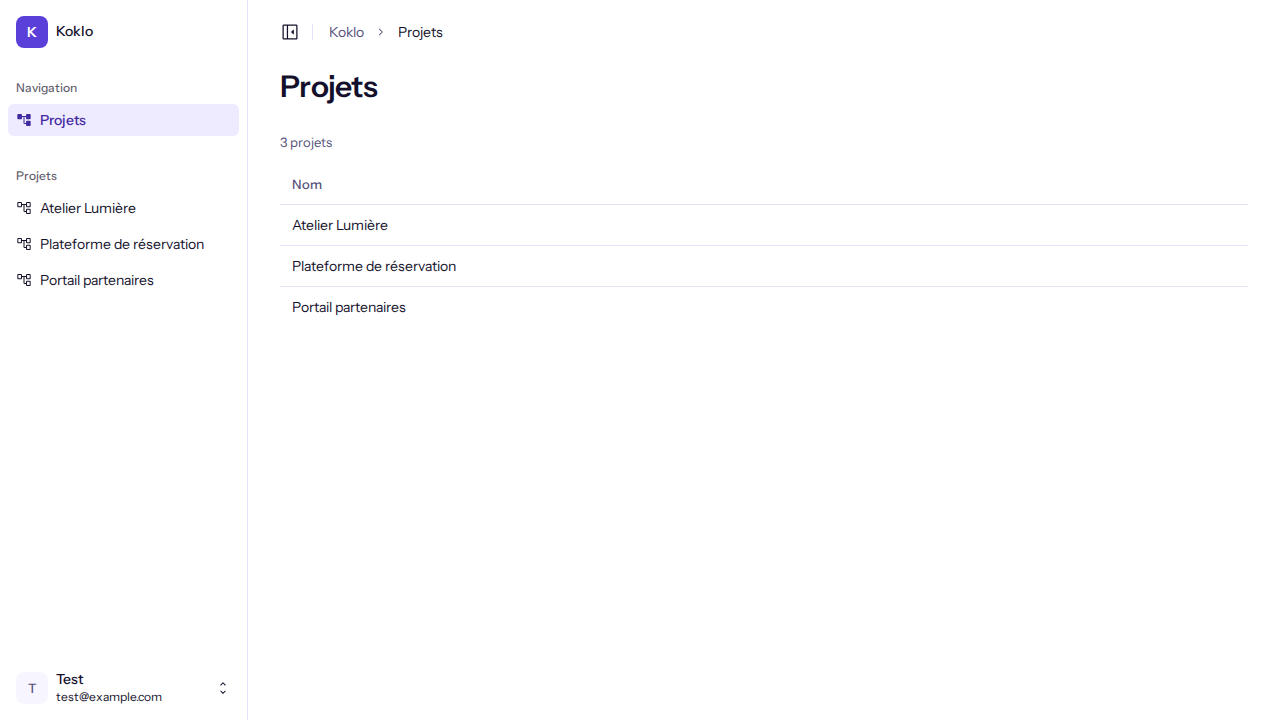
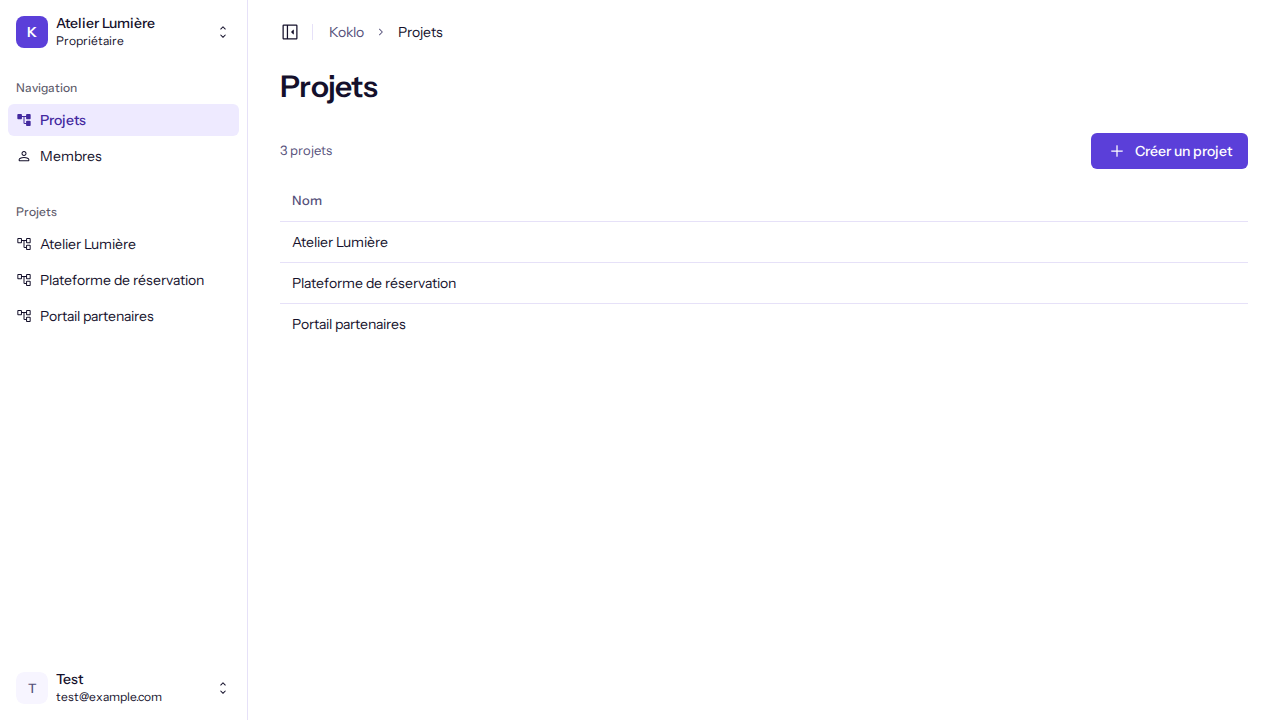
docs(design): add the organizations and members screens and their captures

diff --git a/design/screens/S-projects.md b/design/screens/S-projects.md
@@ -1,7 +1,7 @@
 ---
 id: S-projects
 titre: Liste des projets
-version: 3
+version: 4
 ---
 ## 1. Utilisateurs et objectif
 Personne connectée (vue équipe d'abord). Elle arrive après la connexion (`/projects`). Objectif : voir les projets auxquels elle a accès. Cet écran décrit aussi le **gabarit d'application** réutilisé par les écrans suivants.
@@ -10,23 +10,30 @@ Personne connectée (vue équipe d'abord). Elle arrive après la connexion (`/pr
 - Principale : repérer un projet par son nom.
 - Secondaire : relancer le chargement en cas d'erreur ; basculer clair/sombre.
 - Entrées : `/projects` (redirection depuis `/login` avec session). Sortie : sans session ou erreur `UNAUTHORIZED`, redirection vers `/login`. Le détail d'un projet est hors lot : les lignes ne sont pas des liens tant que la page détail n'existe pas.
-- Pas de création de projet dans ce lot (aucune action inventée).
+- Création (TK-24) : le bouton « Créer un projet » (icône `add`, propriétaire et administrateur seulement) ouvre un panneau latéral (`Sheet`, 400 px) avec le champ « Nom du projet ». Entrée : `/projects` exige une organisation active ; sans organisation active, redirection vers `/organizations` (jamais vers `/login` quand une session existe, lacune G1).
 
 ## 3. Contenu
 Source : `project.list` (`{ id: uuid, name: string }[]`).
 - Titre de page « Projets » (h1, 30 px/600).
 - Données : colonne unique « Nom » (`name`). `id` n'est pas affiché (identifiant technique).
-- Gabarit (`sidebar-07`, TK-85) : logo « K » + nom « Koklo » en tête de barre latérale ; une entrée de navigation « Projets » (icône `account_tree`, `aria-current="page"`, remplie car active) ; bascule de thème en pied de barre ; `SidebarTrigger` dans l'en-tête du contenu. Aucune donnée de démo du bloc (équipes, projets factices, utilisateur).
+- Gabarit (`sidebar-07`, TK-85) : logo « K » + nom « Koklo » en tête de barre latérale ; deux entrées de navigation : « Projets » (icône `account_tree`) et « Membres » (icône `person`, TK-24), `aria-current="page"` sur la page courante, icône remplie quand active ; bascule de thème en pied de barre ; `SidebarTrigger` dans l'en-tête du contenu. Aucune donnée de démo du bloc (équipes, projets factices, utilisateur).
 - Correction TK-85 : blocs fidèles, installés par la CLI. En-tête de barre : TeamSwitcher « Koklo » seul (logo K, sans menu). Navigation : NavMain « Projets » (sans sous-menu). Groupe NavProjects : projets réels de `project.list`, non cliquables, masqué si vide, en chargement ou en erreur. Pied : NavUser (nom, e-mail, initiales de la session ; menu = thème + « Se déconnecter » via `signOut`). En-tête de contenu : `SidebarTrigger`, séparateur, fil d'Ariane « Koklo > Projets ». La bascule de thème quitte le pied de barre pour le menu utilisateur.
 - Pied de barre latérale : `APP_VERSION` non affichée (pas de besoin utilisateur).
 
+- TK-24, TeamSwitcher : n'est plus statique. Il affiche le nom de l'organisation active (repli « Koklo » pendant le chargement), le rôle en texte secondaire et l'icône `unfold_more`. Menu (`DropdownMenu`) : libellé « Organisations », une ligne par organisation (`check` sur l'active, changement via `setActive` puis rechargement des données), séparateur, « Créer une organisation » (icône `add`, vers `/organizations`).
+- TK-24, création de projet : `Sheet` titre « Créer un projet », champ « Nom du projet » (1 à 100 caractères), boutons « Créer le projet » et « Annuler ». Source : `project.create`. Succès : le panneau se ferme, le focus revient sur le bouton déclencheur, la liste se recharge, une région `role="status"` annonce « Projet « <nom> » créé. » et le compteur monte.
+
 ## 4. États
 - **Chargement** : zone `role="status"` `aria-busy="true"` avec libellé visible « Chargement des projets… » et 3 lignes squelette (tokens `muted`). Aucun contenu périmé. Squelette immobile en mouvement réduit.
-- **Vide** (`[]`) : `Card` centrée : icône `account_tree` (28), titre « Aucun projet pour le moment », texte « Les projets auxquels vous avez accès apparaîtront ici. » Pas de tableau vide, pas de bouton inventé.
+- **Vide** (`[]`) : `Card` centrée : icône `account_tree` (28), titre « Aucun projet pour le moment ». Propriétaire ou administrateur : texte « Créez votre premier projet pour commencer. » et bouton « Créer un projet ». Autres rôles : texte « Les projets auxquels vous avez accès apparaîtront ici. », sans bouton. Pas de tableau vide.
 - **Données** : `Table` avec `TableCaption` masquée visuellement « Liste des projets », un `TableHead` « Nom », une ligne par projet. Compteur « N projet(s) » sous le titre.
 - **Erreur** (`INTERNAL`, réseau) : `Alert` destructive, icône `warning`, titre « Impossible de charger les projets », description « Une erreur est survenue. Vérifiez votre connexion puis réessayez. », bouton `Button variant="outline"` « Réessayer » qui relance `project.list` (passe en état chargement).
 - **Non connecté / `UNAUTHORIZED`** : redirection vers `/login`, sans message.
-- Droits insuffisants : sans objet (la liste est filtrée côté API).
+- Droits insuffisants (TK-24) : la liste est filtrée côté API ; pour les rôles autres que propriétaire et administrateur, le bouton « Créer un projet » n'est pas rendu. Si l'API répond `FORBIDDEN` à la création : `Alert` destructive dans le panneau, icône `lock`, « Vous n'avez pas le droit de créer un projet. Demandez à un propriétaire ou à un administrateur. », saisie conservée.
+- Création en cours : champ en lecture seule, bouton `disabled` + `aria-busy`, « Création… ».
+- Erreur de saisie : nom vide « Saisissez le nom du projet. » ; plus de 100 caractères « Le nom ne peut pas dépasser 100 caractères. » (sous le champ, `aria-invalid`, `aria-describedby`, focus sur le champ).
+- Erreur `INTERNAL` à la création : `Alert` destructive dans le panneau, « Le projet n'a pas pu être créé », « Une erreur est survenue. Réessayez dans un instant. »
+- Session sans organisation active (G1) : redirection vers `/organizations`, sans message.
 
 ## 5. Interactions et retours
 « Réessayer » remet l'écran en chargement puis en données/vide/erreur. Bascule de thème immédiate, persistée (cookie/localStorage), sans flash au rechargement ; défaut clair (H-24). Panneau de détail : emplacement réservé (380–440 px, `aside` absent du DOM tant qu'aucun détail n'existe), aucune interaction.
@@ -56,7 +63,12 @@ Sous 768 px : barre latérale masquée, ouverte en `Sheet` par le trigger de l'e
 7. **NavUser réel (retenu, correction TK-85)** contre bascule de thème seule ou menu de démo (Compte, Facturation, Notifications) : seules actions réelles, thème et déconnexion.
 8. **TeamSwitcher à entrée unique sans menu** contre équipes factices ou « Ajouter une équipe » : aucune notion d'équipe dans le contrat.
 
+9. **Création dans un `Sheet` (TK-24, retenu)** contre page `/projects/new` : un seul champ, le contexte de la liste est conservé et le projet apparaît derrière le panneau à la fermeture.
+10. **`Sheet` (retenu)** contre formulaire en ligne au-dessus du tableau : le formulaire en ligne pousse le tableau et se confond avec lui ; contre `Dialog` : absent de `@koklo/ui`. L'emplacement 380–440 px de DESIGN §5 est le même gabarit.
+11. **Bouton absent pour les rôles non gestionnaires (TK-24)** contre bouton désactivé : un bouton désactivé n'explique rien.
+
 ## 9. Questions ouvertes
+- TK-24 : pas de composant `Dialog` dans `@koklo/ui` ; `Sheet` utilisé. Pas de toast : confirmations par région `role="status"`.
 - Colonnes à ajouter au tableau quand le contrat exposera plus que `id` et `name`.
 - Icône `logout` absente de DESIGN §4 : ajoutée au générateur pour « Se déconnecter » (TK-85 correction).
 - Items de navigation 32 px (bloc) contre 36-38 px (DESIGN §5) : bloc conservé ; 44 px sous 768 px.
@@ -71,3 +83,4 @@ Sous 768 px : barre latérale masquée, ouverte en `Sheet` par le trigger de l'e
 | 1 | 2026-10-27 | TK-14 | Création : gabarit d'application et liste des projets, 4 états + redirection |
 | 2 | 2026-10-27 | TK-85 | Gabarit remplacé par `sidebar-07` : repli en icônes, Sheet mobile, mapping `--sidebar-*` sur les tokens, 248 px, nav nommée et `aria-current` conservés ; contenu et 4 états inchangés. Détail : `.workflow/TK-85/02-design.md` |
 | 3 | 2026-10-28 | TK-85 (correction) | Retour à `sidebar-07` fidèle (CLI) : TeamSwitcher, NavMain, NavProjects réels, NavUser avec déconnexion, fil d'Ariane ; largeur 248 px et marges 32/16 px alignées sur DESIGN §5, reste du bloc conservé ; 44 px mobile. Détail : `.workflow/TK-85/02-design.md` |
+| 4 | 2026-10-29 | TK-24 | Création de projet (`Sheet`, rôles owner/admin), état vide avec appel à l'action, TeamSwitcher réel (organisation active, changement, création), entrée « Membres », garde G1 vers `/organizations`. Détail : `.workflow/TK-24/02-design.md` |

diff --git a/design/screens/S-organizations.md b/design/screens/S-organizations.md
@@ -1,0 +1,70 @@
+---
+id: S-organizations
+titre: Choisir ou créer une organisation
+version: 1
+---
+## 1. Utilisateurs et objectif
+Toute personne connectée (vue équipe) **sans organisation active** : premier login, ou nouvelle session dont l'organisation n'est pas encore choisie. Aussi toute personne active qui veut créer une autre organisation ou en changer (depuis le menu du TeamSwitcher). Objectif : arriver dans une organisation, sinon en créer une. Ce rôle de porte d'entrée résout la lacune G1 : « connecté mais sans organisation » n'est plus une erreur d'autorisation, c'est un écran.
+
+## 2. Tâches et parcours
+- Principale : saisir un nom et créer l'organisation (`organization.create`, l'utilisateur devient propriétaire et l'organisation est active sur sa session), puis arriver sur `/projects`.
+- Secondaire : ouvrir une organisation existante (`authClient.organization.setActive`), se déconnecter, basculer clair/sombre.
+- Règle de parcours (sans boucle) : seule l'absence de session mène à `/login`. Session sans organisation active : `/projects` et `/members` renvoient vers `/organizations`. `/organizations` ne renvoie jamais vers `/login` quand une session existe.
+- Aiguillage à l'arrivée sans organisation active (après `organization.list`) :
+  - 0 organisation : formulaire de création seul.
+  - 1 organisation : activation automatique puis `/projects`, avec un état « Ouverture de <nom>… » (la personne n'a rien à choisir).
+  - 2 organisations ou plus : liste à choisir, formulaire de création en dessous.
+- Avec une organisation déjà active (arrivée via le menu du TeamSwitcher) : pas d'activation automatique ; la liste marque l'organisation active et un lien « Retour aux projets » est affiché.
+- Pas de barre latérale : écran plein page centré, hors gabarit d'application (même famille que S-login), car sans organisation active la navigation n'a rien à montrer.
+
+## 3. Contenu
+Sources : `organization.list` (`{ id, name, slug, role }[]`), `organization.create` (`{ name, slug? }`).
+- h1 : « Créer votre organisation » (0 organisation) ou « Choisir une organisation » (au moins une).
+- Phrase (0 organisation) : « Une organisation regroupe vos projets et votre équipe. Vous en serez le propriétaire. »
+- Liste (si au moins une) : une ligne par organisation, nom, rôle en `Badge` outline (Propriétaire, Administrateur, Développeur, Designer, Client, Business), bouton « Ouvrir » (`aria-label` « Ouvrir l'organisation <nom> »). L'organisation active porte l'icône `check` et le texte « Active » au lieu du bouton.
+- Formulaire : champ « Nom de l'organisation » (obligatoire, 1 à 100 caractères) ; bouton « Créer l'organisation ». Sous un `Collapsible` « Personnaliser l'identifiant » : champ « Identifiant » (police mono, 2 à 48 caractères, minuscules, chiffres et tirets), aide « Laissé vide, il est déduit du nom. » ⚠ à confirmer côté API (voir 9).
+- Pied : bouton texte « Se déconnecter » (`signOut`), bascule de thème en haut à droite (comme S-login).
+
+## 4. États
+- **Chargement** (`organization.list`) : `role="status"` `aria-busy`, texte « Chargement de vos organisations… » et squelette de carte. Le formulaire n'apparaît pas avant la réponse (évite le flash avant aiguillage).
+- **Activation automatique** (1 organisation) : `role="status"`, texte « Ouverture de <nom>… », aucun bouton ; en cas d'échec, retombe sur la liste avec l'erreur d'activation.
+- **Vide** (0 organisation) : formulaire de création seul, c'est l'état normal du premier login.
+- **Création en cours** : champs en lecture seule, bouton `disabled` + `aria-busy`, libellé « Création… ».
+- **Erreur de saisie** (au submit, schéma Zod du contrat) : nom vide « Saisissez le nom de l'organisation. » ; nom trop long « Le nom ne peut pas dépasser 100 caractères. » ; identifiant invalide « Utilisez 2 à 48 lettres minuscules, chiffres ou tirets. » Erreur sous le champ, `aria-invalid`, `aria-describedby`, focus sur le premier champ en erreur.
+- **`CONFLICT slug_taken`** : le `Collapsible` s'ouvre, erreur sous « Identifiant » : « Cet identifiant est déjà utilisé. Choisissez-en un autre. » Le champ reçoit le focus. (Le nom, lui, n'a pas besoin d'être unique.)
+- **`INTERNAL` / réseau** (création, liste, activation) : `Alert` destructive, icône `warning`, titre « Impossible de continuer », texte « Une erreur est survenue. Vérifiez votre connexion puis réessayez. » ; la saisie est conservée ; bouton « Réessayer » pour la liste.
+- **`FORBIDDEN`** : sans objet (tout utilisateur connecté peut créer une organisation).
+- **`UNAUTHORIZED`** avec session perdue : `/login`, sans message. Si la session existe, jamais `/login`.
+
+## 5. Interactions et retours
+Création réussie : navigation immédiate vers `/projects` (état vide du propriétaire avec son appel à l'action), sans confirmation intermédiaire ; la destination fait foi. Ouvrir une organisation : bouton en cours (`aria-busy`), puis `/projects`, requêtes en cache invalidées. Validation au submit, pas à la frappe. Entrée dans le champ nom valide le formulaire. Le focus arrive sur le champ « Nom de l'organisation » à l'ouverture quand il n'y a rien à choisir.
+
+## 6. Responsive
+Sous 768 px : carte pleine largeur moins deux marges de 16 px, boutons pleine largeur, cibles 44 px, lignes d'organisation empilées (nom puis rôle, bouton « Ouvrir » en dessous). Dès 768 px : carte centrée, largeur max 448 px, boutons à largeur de contenu pour « Ouvrir », pleine largeur pour « Créer l'organisation ».
+
+## 7. Accessibilité
+- Structure : `main` > `Card` ; un seul `h1` ; `data-testid="organizations-page"`.
+- Ordre de focus : bascule de thème, éventuel « Retour aux projets », liste (boutons « Ouvrir »), champ nom, « Personnaliser l'identifiant », champ identifiant, « Créer l'organisation », « Se déconnecter ». Focus visible via l'anneau `ring`.
+- `Field`, `Label` associé à chaque `Input` ; aide liée par `aria-describedby` ; le `Collapsible` expose `aria-expanded`.
+- Erreurs : `role="alert"` (Alert destructive) pour les erreurs globales ; erreurs de champ liées au champ et annoncées ; jamais la couleur seule (icône `warning` + texte).
+- Organisation active : icône `check` + texte « Active », pas de couleur seule.
+- Chargement et activation automatique annoncés (`role="status"`).
+- Mouvement réduit : aucune animation propre ; squelette immobile sous `prefers-reduced-motion`.
+
+## 8. Alternatives écartées
+1. **Un écran porte d'entrée unique (retenu)** contre deux routes (`/organizations/new` et `/organizations/select`) : la même personne passe de l'un à l'autre selon son nombre d'organisations ; un seul écran évite une redirection de plus et un état de plus à tester, et couvre aussi le cas « session neuve, organisation à rouvrir ».
+2. **Activation automatique si une seule organisation (retenu)** contre toujours montrer le choix : un choix à une option, à chaque connexion, est du bruit pour le cas le plus fréquent.
+3. **Écran plein page centré (retenu)** contre rendu dans le gabarit sidebar : sans organisation active, la barre latérale n'a ni nom d'équipe ni navigation utile, et `project.list` y échouerait.
+4. **Identifiant (slug) dans un `Collapsible` (retenu)** contre champ toujours visible ou champ absent : toujours visible alourdit le premier contact (le slug n'a pas de sens pour un client) ; absent rend `slug_taken` impossible à corriger.
+5. **Redirection immédiate sans confirmation (retenu)** contre écran « Organisation créée » : le toast n'existe pas dans `@koklo/ui` et un écran intermédiaire ajoute un clic ; `/projects` vide avec « Créer un projet » est la confirmation.
+6. **Rediriger vers `/login` sur `UNAUTHORIZED`** (comportement actuel) écarté : c'est la boucle G1.
+
+## 9. Questions ouvertes
+- ⚠ À confirmer côté API : que fait `organization.create` sans `slug` (déduction du nom ?) ; le texte d'aide en dépend. Sinon, rendre le champ visible et obligatoire.
+- Icône `group`/`domain` absente de la bibliothèque : la liste utilise `person` si une icône est voulue ; sinon texte seul. Aucune icône n'est requise.
+- Nom d'une organisation non unique : deux organisations de même nom sont distinguées par le rôle seulement ; à revoir si le cas apparaît.
+
+## 10. Historique
+| Version | Date | Ticket | Changement et raison |
+|---|---|---|---|
+| 1 | 2026-10-29 | TK-24 | Création : porte d'entrée sans organisation active (G1), création, choix et activation automatique. Détail : `.workflow/TK-24/02-design.md` |

diff --git a/design/screens/S-members.md b/design/screens/S-members.md
@@ -1,0 +1,66 @@
+---
+id: S-members
+titre: Membres et invitation
+version: 1
+---
+## 1. Utilisateurs et objectif
+Membres de l'organisation active (vue équipe). Les propriétaires et administrateurs invitent ; les autres rôles (développeur, designer, client, business) consultent la liste. Arrivée depuis l'entrée « Membres » de la barre latérale. Objectif : inviter quelqu'un avec le bon rôle et voir qui fait partie de l'organisation.
+
+## 2. Tâches et parcours
+- Principale : saisir un e-mail, choisir un rôle, « Inviter ».
+- Secondaire : consulter la liste des membres ; relancer le chargement.
+- Entrées : `/members` (navigation). Sans session : `/login` ; session sans organisation active : `/organizations`.
+- Sorties : aucune. La page d'acceptation de l'invitation, la liste des invitations en attente, le renvoi et le changement de rôle sont hors lot.
+- Gabarit : celui de S-projects (sidebar-07), entrée « Membres » (icône `person`, `aria-current="page"`), fil d'Ariane « Koklo > Membres ».
+
+## 3. Contenu
+Sources : `member.list` (`{ id, userId, name, email, role }[]`), `member.invite` (`{ email, role }` -> `{ id, email, role, status: "pending", expiresAt }`), `organization.list` (rôle courant, H5).
+- h1 « Membres » ; compteur « N membre(s) ».
+- Carte « Inviter un membre » (managers seulement) : champ « Adresse e-mail », sélecteur « Rôle », bouton « Inviter ». Rôles proposés et libellés : Administrateur (`admin`, seulement pour un propriétaire), Développeur, Designer, Client, Business. `owner` jamais proposé. Rôle par défaut : aucun (placeholder « Choisir un rôle »), pour ne pas inviter par erreur avec des droits.
+- Tableau : colonne « Membre » (nom ; e-mail en texte secondaire dessous) et colonne « Rôle » (`Badge` outline : Propriétaire, Administrateur, Développeur, Designer, Client, Business). Ordre de l'API.
+
+## 4. États
+- **Chargement** (`member.list`) : `role="status"` `aria-busy`, « Chargement des membres… » et 3 lignes squelette. Le formulaire reste disponible pendant ce temps.
+- **Données** : `Table` avec `TableCaption` masquée « Liste des membres ». Le vide n'existe pas (l'utilisateur est membre).
+- **Erreur de liste** : `Alert` destructive, `warning`, « Impossible de charger les membres », « Une erreur est survenue. Vérifiez votre connexion puis réessayez. », bouton « Réessayer ».
+- **Droits insuffisants** (rôle non gestionnaire) : à la place du formulaire, `Alert` neutre, icône `lock`, « Seuls les propriétaires et les administrateurs peuvent inviter des membres. » La liste reste visible. L'API reste l'autorité (`FORBIDDEN`).
+- **Invitation en cours** : champs en lecture seule, bouton `disabled` + `aria-busy`, « Invitation… ».
+- **Succès** : `Alert` neutre `role="status"`, icône `check_circle`, titre « Invitation créée », texte « <e-mail> est invité comme <rôle> jusqu'au <date longue>. L'e-mail part en arrière-plan. » Le formulaire est vidé, le focus revient sur « Adresse e-mail ». Le message disparaît à la prochaine saisie ou au prochain envoi, pas au bout d'un délai. Le texte ne dit jamais « e-mail envoyé » (G3).
+- **Erreur de saisie** (schéma du contrat) : e-mail « Saisissez une adresse e-mail valide, par exemple nom@exemple.fr. » ; rôle « Choisissez un rôle. »
+- **`CONFLICT already_member`** : erreur sous le champ e-mail « Cette personne fait déjà partie de l'organisation. »
+- **`CONFLICT already_invited`** : « Cette personne a déjà une invitation en attente. » (message distinct de l'autre).
+- **`FORBIDDEN`** (ex. un administrateur invitant un administrateur) : `Alert` destructive, `lock`, « Vous n'avez pas le droit d'inviter ce rôle. Seul un propriétaire peut inviter un administrateur. »
+- **`INTERNAL`** : `Alert` destructive, « L'invitation n'a pas pu être créée », « Une erreur est survenue. Réessayez dans un instant. » La saisie est conservée.
+
+## 5. Interactions et retours
+Validation au submit ; focus sur le premier champ en erreur. Entrée dans le champ e-mail valide. Après succès, la liste n'est pas modifiée (la personne n'est pas membre avant d'accepter) : c'est pourquoi la confirmation est explicite. Aucune boîte de dialogue de confirmation (action réversible côté API par annulation future).
+
+## 6. Responsive
+Sous 768 px : carte pleine largeur, bouton « Inviter » pleine largeur, cibles 44 px, le sélecteur de rôle ouvre sa liste en pleine largeur ; tableau à deux colonnes sans défilement horizontal à 375 px (e-mail sous le nom, jamais une colonne propre). Dès 768 px : carte à largeur max 576 px alignée à gauche, tableau pleine largeur de contenu.
+
+## 7. Accessibilité
+- Repères : `nav`, `main`, h1 unique, `data-testid="members-page"`.
+- Ordre de focus : trigger, navigation, champ e-mail, rôle, « Inviter », « Réessayer » ou tableau.
+- Chaque champ a un `Label` visible ; erreurs liées (`aria-invalid`, `aria-describedby`) ; `Select` du kit (Radix) navigable au clavier, flèches et saisie de début de mot.
+- Succès annoncé par `role="status"`, erreurs par `role="alert"`; icône + texte dans tous les cas.
+- Les rôles sont du texte dans un `Badge` outline : pas de couleur porteuse de sens.
+- Mouvement réduit : aucune animation propre ; squelette immobile.
+
+## 8. Alternatives écartées
+1. **Formulaire et liste sur la même page (retenu, H3)** contre page d'invitation seule : sans liste, la personne ne voit pas qui est déjà dedans et ne peut pas éviter `already_member` ; `member.list` est déjà au contrat.
+2. **Formulaire en carte au-dessus de la liste (retenu)** contre bouton « Inviter » ouvrant un panneau : l'invitation est la tâche principale de la page et le formulaire tient en trois éléments ; un panneau cache la confirmation.
+3. **Formulaire absent pour les rôles non gestionnaires** contre formulaire désactivé : un formulaire désactivé n'explique pas pourquoi ; l'`Alert` dit qui peut inviter.
+4. **Aucun rôle présélectionné (retenu)** contre « Développeur » par défaut : un rôle par défaut fait inviter avec des droits que la personne n'a pas choisis.
+5. **Confirmation « Invitation créée » persistante** contre toast : pas de toast dans `@koklo/ui`, et un toast qui disparaît est inaccessible à beaucoup d'utilisateurs ; l'`Alert` reste jusqu'à l'action suivante.
+6. **Dire « E-mail envoyé »** écarté : l'envoi est asynchrone et peut échouer silencieusement (G3).
+
+## 9. Questions ouvertes
+- G3 : le lien de l'e-mail mène à une 404 tant que la page d'acceptation n'existe pas ; ticket suivant à planifier. Le texte du succès sera à ajuster à ce moment.
+- Icône `group` absente de la bibliothèque (DESIGN §4) : l'entrée de navigation utilise `person` ; à ajouter si un `group` est souhaité.
+- Pas de liste des invitations en attente, donc pas de moyen de voir `already_invited` avant l'erreur.
+- Rôle non-gestionnaire (client, business) : la vue client pourrait ne pas voir « Membres » du tout ; non tranché par le CDC, la page est visible pour tous les rôles.
+
+## 10. Historique
+| Version | Date | Ticket | Changement et raison |
+|---|---|---|---|
+| 1 | 2026-10-29 | TK-24 | Création : invitation (e-mail + rôle) et liste des membres, droits par rôle. Détail : `.workflow/TK-24/02-design.md` |

diff --git a/design/README.md b/design/README.md
@@ -48,4 +48,6 @@ Ce qui mériterait un avis humain. Ça ne bloque rien : l'option la plus conform
 | Écran | Version | Dernier ticket |
 |---|---|---|
 | [S-login](screens/S-login.md) | 3 | TK-85 (correction) |
-| [S-projects](screens/S-projects.md) | 3 | TK-85 (correction) |
+| [S-projects](screens/S-projects.md) | 4 | TK-24 |
+| [S-organizations](screens/S-organizations.md) | 1 | TK-24 |
+| [S-members](screens/S-members.md) | 1 | TK-24 |
